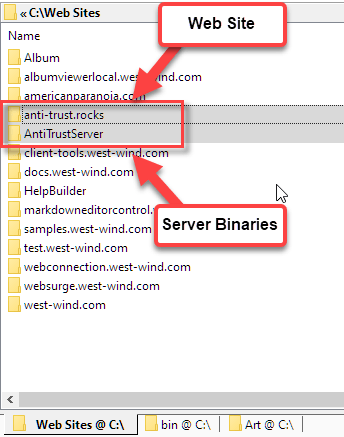
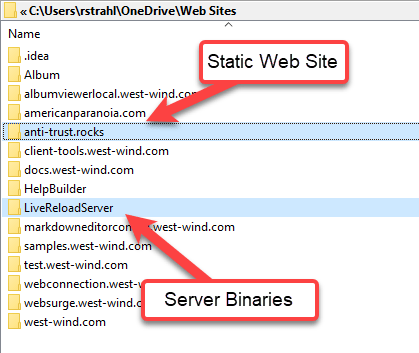
Version 1.0 -- documentation updates -- package updates

diff --git a/LiveReloadServer/Program.cs b/LiveReloadServer/Program.cs
@@ -50,11 +50,11 @@ namespace LiveReloadServer
                 
                 ColorConsole.WriteWarning("\r\nUnable to start the Web Server.");
                 Console.WriteLine("------------------------------");
-
+                ColorConsole.WriteWrappedHeader("\r\nUnable to start the Web Server.",headerColor: ConsoleColor.DarkYellow);
 
                 Console.WriteLine("Most likely the server port is already in use by another application.");
                 Console.WriteLine("Please try and choose another port with the `--port` switch. And try again.");
-                Console.WriteLine("\r\n\r\nException Info:");
+                Console.WriteLine("\r\n\r\n");
                 ColorConsole.WriteError(ex.Message);
                 Console.WriteLine("---------------------------------------------------------------------------");
             }
@@ -65,7 +65,7 @@ namespace LiveReloadServer
 
                 Console.WriteLine("The server Host IP address is invalid.");
                 Console.WriteLine("Please try and choose another host IP address with the `--host` switch. And try again.");
-                Console.WriteLine("\r\n\r\nException Info:");
+                Console.WriteLine("\r\n\r\n");
                 ColorConsole.WriteError(ex.Message);
                 Console.WriteLine("---------------------------------------------------------------------------");
             }
@@ -137,17 +137,15 @@ namespace LiveReloadServer
             ColorConsole.WriteWarning("\r\nSomething went wrong during server startup!");
             Console.WriteLine();
 
-            Console.WriteLine("The Live Reload Server has run into a problem and has stopped working.");
-            Console.WriteLine("Here's additional information:");
-            ColorConsole.WriteLine("\r\n\r\nException Info:");
+            Console.WriteLine("The Live Reload Server has run into a problem and has stopped working.\r\n");
             ColorConsole.WriteError(message);
 
             if (!string.IsNullOrEmpty(stackTrace))
             {
-                Console.WriteLine("---");
+                Console.WriteLine("----- Error Info -----");
                 Console.WriteLine(stackTrace);
                 Console.WriteLine(source);
-                Console.WriteLine("---------------------------------------------------------------------------");
+                Console.WriteLine("----------------------");
             }
         }
 
@@ -187,7 +185,7 @@ Syntax:
 --ShowUrls               True|False*
 --OpenBrowser            True*|False
 --OpenEditor             True|False*
---EditorLaunchCommand    ""code \""%1\""""
+--EditorLaunchCommand    ""code \""%1\""""*
 --DetailedErrors         True*|False
 --Environment            Production*|Development
 

diff --git a/README.md b/README.md
@@ -1,4 +1,4 @@
-# Live Reload Web Server 
+# Live Reload Web Server
 
 [![NuGet](https://img.shields.io/nuget/v/LiveReloadServer.svg)](https://www.nuget.org/packages/LiveReloadServer/)
 [![](https://img.shields.io/nuget/dt/LiveReloadServer.svg)](https://www.nuget.org/packages/LiveReloadServer/) &nbsp; &nbsp; &nbsp; &nbsp;
@@ -11,15 +11,17 @@
 This server supports:
 
 * Generic Static File Web Server you can launch in any folder
-* Just start with `LiveReloadServer --webroot <folder>`
-* Optional LiveReload functionality for change detection and browser refresh
+* Just start with `LiveReloadServer <folder>`
+* LiveReload functionality for change detection and browser refresh
 * Self-contained Razor Pages support with Live Reload Support
 * Themed Markdown page rendering support built in
 * Options to customize location, port, files checked etc.
 * Easily installed and updated with `dotnet tool -g install LiveReloadServer`
-* Support for locally running Blazor Applications (without Live Reload support however)
-* Cross Platform (as a Dotnet Tool only for now)
-* Serve HTTPS content (as a Dotnet Tool only for now)
+* Run local SPA applications (Angular, VueJs, React etc.)
+* Run Blazor Applications (without Live Reload support however)
+* Cross Platform - Windows, Mac, Linux (dotnet tool only)
+* Serve HTTPS content (dotnet tool only)
+* Hostable ASP.NET Core app that can be used by multiple sites on a server
 * Available as: Dotnet Tool, Chocolatey Package, or Self-Contained (Windows) Download
 
 ### Requirements:
@@ -28,14 +30,16 @@ This server supports:
 * Hosting: .NET 5.0 Runtime or SDK
 * Standalone Exe (Window): self-contained
 
-> If you are not .NET 5.0 versions prior to `v0.2.20` use .NET Core 3.1.
-
 You can grab the compiled tool as:
 
 * [Dotnet Tool](https://www.nuget.org/packages/LiveReloadServer/)  <small>(windows, mac, linux)</small>  
-  `dotnet tool install -g LiveReloadServer`
+  ```ps
+  dotnet tool install -g LiveReloadServer`
+  ```
 * [Chocolatey Package](https://chocolatey.org/packages/LiveReloadWebServer) <small>(windows)</small>   
- `choco install LiveReloadWebServer` 
+  ```ps
+  choco install LiveReloadWebServer
+  ```
 * [Self Contained Windows Executable Folder (zipped)](https://github.com/RickStrahl/Westwind.AspnetCore.LiveReload/raw/master/LiveReloadServer/LiveReloadWebServer-SelfContained.zip) <small>(windows)</small>
 * [Hostable Package (requires runtime installed)]()
 
@@ -68,7 +72,7 @@ To use it, navigate to a folder that you want to serve HTTP files out of:
 LiveReloadServer
 
 # specify a folder instead of current folder and a different port
-LiveReloadServer --webroot "c:/temp/My Local WebSite" --port 5350 -UseSsl
+LiveReloadServer "c:/temp/My Local WebSite" --port 5350 -UseSsl
 
 # Customize some options
 LiveReloadServer --LiveReloadEnabled False --OpenBrowser False -UseSsl -UseRazor
@@ -88,7 +92,7 @@ You can use the command line to customize how the server runs. By default files 
 Use commandlines to customize:
 
 ```ps
-LiveReloadServer --WebRoot "c:/temp/My Web Site" --port 5200 -useSsl
+LiveReloadServer "c:/temp/My Web Site" --port 5200 -useSsl -openEditor
 ```
 
 There are a number of Configuration options available:
@@ -96,47 +100,42 @@ There are a number of Configuration options available:
 ```text
 Syntax:
 -------
-LiveReloadServer  <options>
+LiveReloadServer <path> <options>
 
 --WebRoot                <path>  (current Path if not provided)
 --Port                   5200*
 --Host                   0.0.0.0*|localhost|custom Ip - 0.0.0.0 allows external access
---UseSsl                 True|False*{razorFlag}
+--UseSsl                 True|False*
+--UseRazor          	 True|False*
 
 --UseLiveReload          True*|False
---Extensions             ".css,.js,.htm,.html,.ts"*
+--Extensions             ".cshtml,.css,.js,.htm,.html,.ts"*
 --DefaultFiles           "index.html,default.htm"*
 
 --ShowUrls               True|False*
 --OpenBrowser            True*|False
 --OpenEditor             True|False*
---EditorLaunchCommand    'code "%1"'*
+--EditorLaunchCommand    "code \"%1\""*
 --DetailedErrors         True*|False
 --Environment            Production*|Development
 
 Razor Pages:
 ------------
---UseRazor              True|False*
-
-Razor Pages:
-------------
---UseRazor              True|False*
+--UseRazor               True|False*
 
 Markdown Options:
 -----------------
---UseMarkdown           True|False*  
---CopyMarkdownResources True|False*  
---MarkdownTemplate      "~/markdown-themes/__MarkdownTestmplatePage.cshtml"*
+--UseMarkdown           True|False*
+--CopyMarkdownResources True|False*
+--MarkdownTemplate      ~/markdown-themes/__MarkdownTestmplatePage.cshtml*
 --MarkdownTheme         github*|dharkan|medium|blackout|westwind
 --MarkdownSyntaxTheme   github*|vs2015|vs|monokai|monokai-sublime|twilight
-
 
 Configuration options can be specified in:
 
 * Command Line options as shown above
-* Logical Command Line Flags for true can be set with -UseSsl or -UseRazor
-* Environment Variables with `LiveReloadServer_` prefix. Example: 'LiveReloadServer_Port'
-* You use -UseSsl without True or False to set a logical value to true
+* Logical Command Line Flags for true can be set like: -UseSsl or -UseRazor or -OpenBrowser
+* Environment Variables with 'LIVERELOADSERVER_' prefix. Example: 'LIVERELOADSERVER_PORT'
 
 Examples:
 ---------
@@ -144,17 +143,17 @@ LiveReloadServer --WebRoot "c:\temp\My Site" --port 5500 -useSsl -useRazor --ope
 
 $env:LiveReloadServer_Port 5500
 $env:LiveReloadServer_WebRoot c:\mySites\Site1\Web
-LiveReloadServer -UseMarkdown -UseRazor
+LiveReloadServer
 ```
 
 You can also use Environment variables to set these save options by using a `LiveReloadServer_` prefix:
 
 ```ps
-$env:LiveReload_Port 5500
+$env:LiveReloadServer_Port 5500
 LiveReload
 ```
 ## Static Files
-The Web Server automatically serves all static files and Live Reload is automatically enabled unless explicitly turned off. HTML pages, CSS and scripts, and any other specific files with extensions you add are autoamtically reloaded whenever you make a change to the files.
+The Web Server automatically serves all static files and Live Reload is automatically enabled unless explicitly turned off. HTML pages, CSS and scripts, and any other specific files with extensions you add are automatically reloaded whenever you make a change to the files.
 
 You can specify explicit file extensions to monitor using the `--Extensions` switch. The default is: `".cshtml,.css,.js,.htm,.html,.ts,.md"`.
 
@@ -195,7 +194,7 @@ The template used for Markdown rendering is an MVC View template that is passed 
 You can override the template used by using the `--MarkdownPageTemplate` command line switch:
 
 ```ps
-LiveReloadServer --WebRoot ./website/site1 -UseMarkdown --MarkdownPageTemplate ~/MyMarkdownTemplate.cshtml
+LiveReloadServer ./website/site1 -UseMarkdown --MarkdownPageTemplate ~/MyMarkdownTemplate.cshtml
 ```
 
 > Note although you can completely replace the stock template, keep in mind that there's a bit of styling and scripts are required in order to render Markdown. For example, code snippets coloring needs a JavaScript library and text styling may require some custom CSS. It'll render without but it won't look pretty without a bit of styling.
@@ -423,6 +422,7 @@ Some things you can do that are useful:
 * Update a Copyright notice year with `2017-@DateTime.Now.Year`
 * Read authentication values
 * Check versions of files on disk to display version number for downloads
+* Implement Server Side SEO Friendly Page Routing
 * Download content from other Web sites to retrieve information or text
 
 All these things use intrinsic built-in features of .NET or ASP.NET which, while limited to generic functionality, are still very useful for simple scripting scenarios.
@@ -462,7 +462,7 @@ You can do this with:
 }
 ```
 
-or by starting with the `--FolderNotFoundFallbackPath=/index.html` command line switch. With this flag in place a URL like this:
+or by starting with the `--FolderNotFoundFallbackPath /index.html` command line switch. With this flag in place a URL like this:
 
 ```text
 https://albumviewer.west-wind.com/albums
@@ -472,38 +472,24 @@ If fired on the server automatically serves the content of `/index.html`. This a
 
 
 ## Running LiveReloadServer in a Web Server
-LiveReloadServer is essentially an ASP.NET Core application and as such can also run behind a live Web Server like IIS or nginX. LiveReloadServer is distributed as a `dotnet tool` or a standalone exe, but we also provide a hostable package you run like any other ASP.NET Core application. This can be useful if you need to simple Razor Page content or Markdown display features.
+If you are working strictly with static files on your Web site, there's no need to have a deploy LiveReloadServer. However, if you're using the dynamic features of the LiveReloadServer - RazorPages or Markdown Rendering - these features require that LiveReloadServer is available for processing requests on a production server.
+
+LiveReloadServer is an ASP.NET Core application and as such can also run behind a live Web Server like IIS or nginX. LiveReloadServer is distributed as a `dotnet tool` or a standalone exe, but we also provide a hostable package you run like any other ASP.NET Core application. This can be useful if you need to simple Razor Page content or Markdown display features.
 
 To do this:
 
-* Download the integrated server [binaries from GitHub](https://github.com/RickStrahl/Westwind.AspnetCore.LiveReload/raw/master/LiveReloadServer/LiveReloadWebServer.zip)
+* Download the integrated server [binaries from GitHub](https://github.com/RickStrahl/LiveReloadServer/blob/master/LiveReloadWebServer-Hosted.zip)
 * Install the files into a new folder
-* Use Environment variables or config settings  
-to specify the folder to serve and options to use
-
-**Note**: You can also run the server binaries **directly from the NuGet Package Folder** if you want to dig deep:
-
- ```xml
- <aspNetCore processPath="dotnet" hostingModel="inprocess"
-   arguments="C:\Users\rick\.dotnet\tools\.store\livereloadserver\0.2.15.2\livereloadserver\0.2.15.2\tools\netcoreapp3.1\any\LiveReloadServer.dll" 
-   stdoutLogEnabled="true" stdoutLogFile=".\logs\stdout">
-```   
-
+* Configure Web site's `web.config` to point .NET Core binary
 
 ### Installing on IIS
-Let's go through this with IIS which uses the ASP.NET Core Hosting module. Make sure whatever server you're using .NET Core 3.1 or later is installed. On IIS you need Windows Server Hosting package or SDK.
+Let's go through this with IIS which uses the ASP.NET Core Hosting module. Make sure whatever server you're using .NET Core 5.x or later is installed. On IIS you need [ASP.NET Core Windows Server Hosting Bundle](https://dotnet.microsoft.com/download/dotnet/5.0).
 
-Start by downloading the hosted binaries and unzip into a folder. I'm going to use:
-
-```txt
-c:\web sites\antitrustalbum
-```
-
-You should end up with two folders: Your Web site content and the Server binaries which are separate (although you can put them into the same folder structure if you like).
+Start by downloading the hosted binaries and unzip into a folder - I use `LiveReloadServer` in my `Web Sites` folder. The Web Site goes into a separate folder `anti-trust.rocks` using only the static files that make up the Web site's content.
 
 ![](Assets/HostedServerAndWebSiteFolders.png)
 
-Next set up a new Web Site (or virtual in IIS) and point it at this new folder. You'll want to use a separate Application Pool as IIS can only host a single .NET Core app in an Application Pool. Remove ASP.NET Framework support from the AppPool to reduce overhead.
+Next set up a new Web Site (or virtual in IIS) and point it at this new folder. You'll want to use a separate Application Pool as IIS can only host a single .NET Core app in an Application Pool. Remove ASP.NET Framework support from the Application Pool to reduce overhead.
 
 ![](Assets/IISSiteFolder.png)
 
@@ -517,30 +503,20 @@ Finally you need to configure the site to point at the Web folder and set any cu
       <handlers>
         <add name="aspNetCore" path="*" verb="*" modules="AspNetCoreModuleV2" resourceType="Unspecified" />
       </handlers>
-      <aspNetCore processPath="dotnet" arguments="../AntiTrustServer/LiveReloadServer.dll" stdoutLogEnabled="true" stdoutLogFile=".\logs\stdout" hostingModel="inprocess">
+      <aspNetCore processPath="dotnet" arguments="../LiveReloadServer/LiveReloadServer.dll" stdoutLogEnabled="true" stdoutLogFile=".\logs\stdout" hostingModel="inprocess">
         <environmentVariables>
-          <environmentVariable name="ASPNET_ENVIRONMENT" value="Development" />
+          <environmentVariable name="ASPNET_ENVIRONMENT" value="Production" />
           <environmentVariable name="LIVERELOADSERVER_WEBROOT" value="C:\Web Sites\anti-trust.rocks" />
           <environmentVariable name="LIVERELOADSERVER_USERAZOR" value="True" />          
           <environmentVariable name="LIVERELOADSERVER_USELIVERELOAD" value="False" /> 
         </environmentVariables>
       </aspNetCore>
-
     </system.webServer>
   </location>
 </configuration>
 ```
 
 Notice that I'm using a relative path for Server application - you can also specify a full path if necessary. Note that multiple Web sites can share the single server instance.
-
-
-
-
-
-
-
-
-
 
 ## More Features?
 The primary goal of LiveReload server is as a local server, not a hosted do-it-all solution. Other features may be explored but at the moment the feature set is well suited to the stated usage scenario I intended it for.
@@ -553,40 +529,4 @@ If that's of interest to you or you want to contribute, please file an issue to 
 
 ## Version History
 
-### Version 0.2.22
-
-* **Add `-openEditor` and `--editorLaunchCommand` Config Options**  
-The new `-openEditor` command allows opening an editor when a site is opened. This is useful if you just start working on a site and you can both launch the site and the editor at the same time. By default VS Code is launched via `code "%1"` which can be overridden with a custom editor launch command.
-
-* **Externalized Script**  
-Remove inline script from rendered HTML content pages and use `<script>` tag to pull in the JavaScript code to reload the page from script.
-
-* **Improved WebSocket Disconnected Handling**  
-Updated client code to more cleanly handle WebSocket disconnected errors by polling for reconnections less frequently.
-
-### Version 0.2.4
-
-* **Add --Host Configuration Value**  
-You can now specify the host IP Address or domain to bind the server to. Previously the server was bound to localhost which didn't allow for external network access. Using `--Host` as a parameter or configuration value you can now specify `0.0.0.0` for example to bind to all IP addresses and allow external access. The default is still `localhost` but you can now explicitly add external access via `--Host 0.0.0.0` or using a specific IP Address to bind to.
-
-### Version 0.2.3
-
-* **Add Blazor Viewing Support**  
-Added support for reading custom extensions like the required `.dll` extension for .NET assemblies in Blazor applications. Also added Refresh Fallback support for client side navigation URLs by allowing to redirect to the `/index.html` page on the client for server side refreshes.
-
-### Version 0.2.2
-
-* **Add Markdown File Support**  
-Added support for optionally serving Markdown files as HTML from the local site. Markdown files are loaded as `.md`,`.markdown`, `.mkdown` or as extensionless URLs from the Web site and can participate in Live Reload functionality.
-
-* **Add Console Application Icon** 
-Added Console Application icon so application is easier to identify in the Task list and when running on the Desktop. 
-
-* **Update the Sample Application**  
-Updated the .NET Core 3.1 Sample application to properly display reference links. Add Markdown Example.
-
-* **Fix: Server Timeout not respected**   
-The server timeout was not respected previously and has been fixed to properly wait for the configured period before refreshing the browser instance.
-
-* **Fix: Command Line Parsing for Logical Switches**  
-Fix issue with logical switches like `-UseSSL` which were not properly working when configuration was present in the configuration file. Settings of the command line now properly override configuration setting in the config file.
+[Live Reload Server Change Log](Changelog.md)

diff --git a/Changelog.md b/Changelog.md
@@ -1,12 +1,34 @@
 # Live Reload Server Change Log
 
+### Version 1.0
+
+* **Environment Variable Path Fixups**  
+The WebRoot path can now include Environment variables as well as root path `~` markers to resolve to a fully qualified launch path.
+
+* **Improved Server Hosting Functionality**  
+Provide default `web.config` for IIS hosting and updated documentation to allow you to host a shared instance of this server on a Web site. Great for hosting simple 'mostly' static sites that also need a few dynamic features, without having to install and deploy a full ASP.NET Core application. You can install one 'runtime' and use it for many sites.
+
+* **Add `-openEditor` and `--editorLaunchCommand` Config Options**  
+The new `-openEditor` command allows opening an editor when a site is opened. This is useful if you just start working on a site and you can both launch the site and the editor at the same time. By default VS Code is launched via `code "%1"` which can be overridden with a custom editor launch command.
+
+* **Improved Retry Handling in Browser if Server is Stopped**  
+Retry attempts are minimized if the server is shut down which will reduce initial hits if the server is restarted after a break which should improve startup speed.
+
+* **Externalized Script**  
+Remove inline script from rendered HTML content pages and use `<script>` tag to pull in the JavaScript code to reload the page from script.
+
 ### Version 0.2.16
 
 * **Add Support for DeveloperErrorPage**  
 Since this server is meant primarily for development scenarios, we've added support for the `--DetailedErrors` which when set uses the default ASP.NET Developer error page which provides lots of error detail. Note: You have to provide an `/error.cshtml` page with specific code in the file for this to work ([see docs](https://github.com/RickStrahl/LiveReloadServer##developer-error-page)).
 
-* **Break out LiveReloadServer into a separate Github Project**  
-Removed the LiveReloadServer project from the Westwind.AspNetCore.LiveReload Github project and moved into its own separate GitHub repository.
+* **Break out LiveReloadServer into a separate GitHub Project**  
+Removed the LiveReloadServer project from the Westwind.AspNetCore.LiveReload GitHub project and moved into its own separate GitHub repository.
+
+* **Add --Host Configuration Value**  
+You can now specify the host IP Address or domain to bind the server to. Previously the server was bound to localhost which didn't allow for external network access. Using `--Host` as a parameter or configuration value you can now specify `0.0.0.0` for example to bind to all IP addresses and allow external access. The default is still `localhost` but you can now explicitly add external access via `--Host 0.0.0.0` or using a specific IP Address to bind to.
+
+### Version 0.2.4
 
 * **Add --Host Configuration Value**  
 You can now specify the host IP Address or domain to bind the server to. Previously the server was bound to localhost which didn't allow for external network access. Using `--Host` as a parameter or configuration value you can now specify `0.0.0.0` for example to bind to all IP addresses and allow external access. The default is still `localhost` but you can now explicitly add external access via `--Host 0.0.0.0` or using a specific IP Address to bind to.
